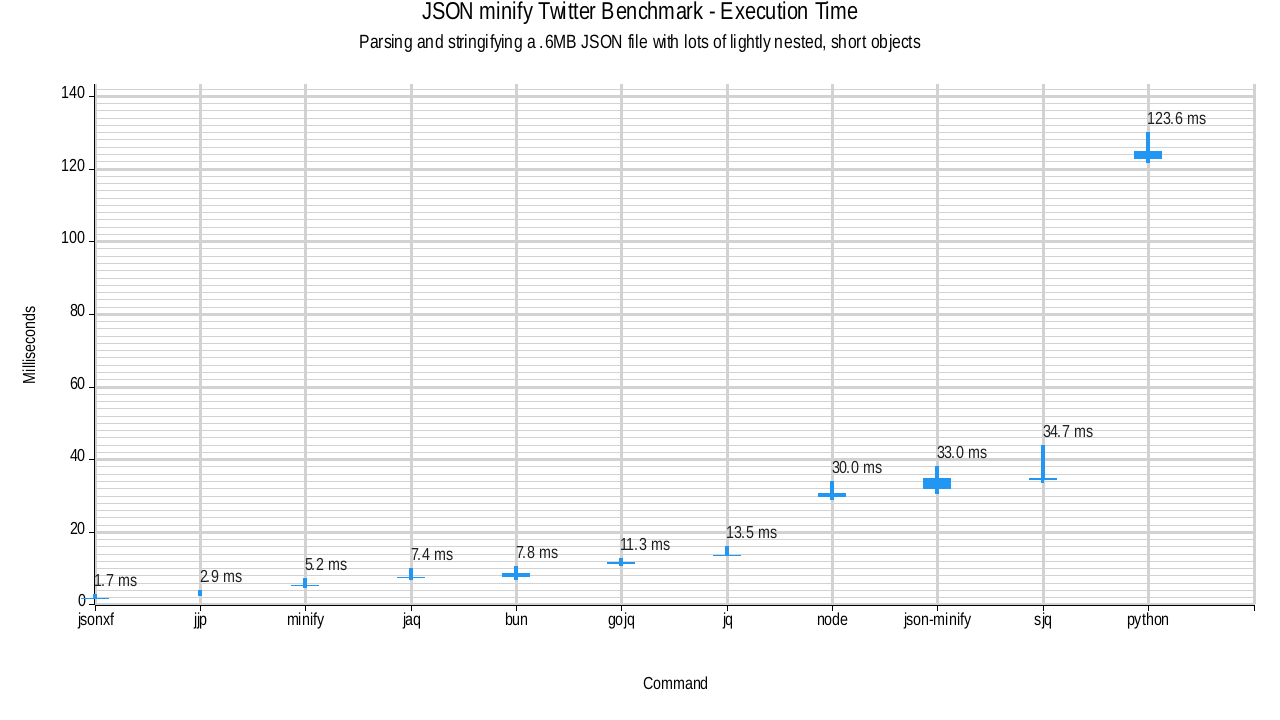
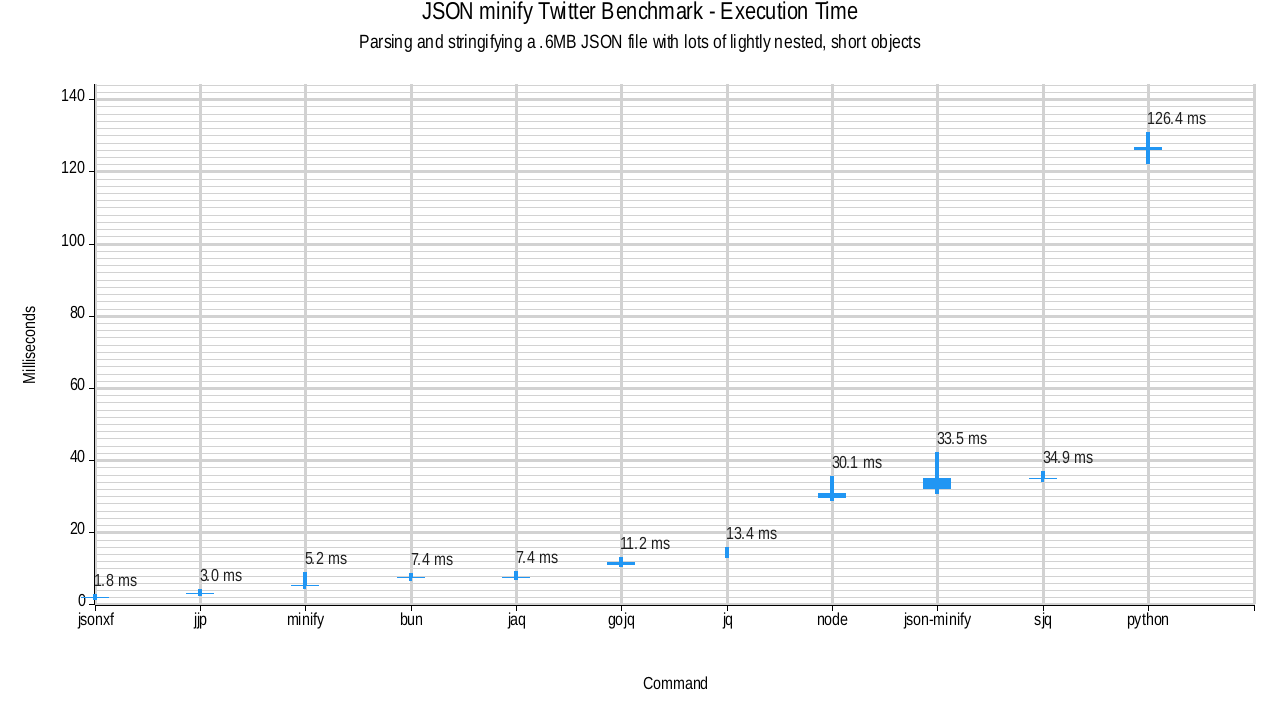
docs: regenerate cli formatter benchmarks without a shell

diff --git a/benches/cli-formatter.md b/benches/cli-formatter.md
@@ -23,21 +23,21 @@ The following JSON fixtures are used across benchmarks:
 
 | Command        | Mean Wall Time [ms] |   Change | Factor         |
 | :------------- | ------------------: | -------: | :------------- |
-| `jjp`          |          29.6 ± 1.8 |          |                |
-| `json-pp-rust` |          27.0 ± 1.5 |    -8.6% |                |
-| `jsonice`      |          24.7 ± 0.3 |   -16.5% |                |
-| `prettier`     |       1091.1 ± 23.9 | +3586.0% | (36.9x slower) |
-| `jq`           |         102.2 ± 1.3 |  +245.4% | (3.5x slower)  |
-| `gojq`         |          38.8 ± 1.4 |   +31.0% | (1.3x slower)  |
-| `jaq`          |          41.7 ± 2.5 |   +41.0% | (1.4x slower)  |
-| `sjq`          |         419.9 ± 2.5 | +1318.5% | (14.2x slower) |
-| `dprint`       |         413.1 ± 7.3 | +1295.7% | (14.0x slower) |
-| `python`       |         274.8 ± 2.6 |  +828.4% | (9.3x slower)  |
-| `node`         |          67.7 ± 1.8 |  +128.7% | (2.3x slower)  |
-| `bun`          |          24.1 ± 0.7 |   -18.5% |                |
-| `jsonxf`       |          12.4 ± 0.3 |   -58.1% | (2.4x faster)  |
-| `jsonformat`   |          15.9 ± 0.9 |   -46.2% | (1.9x faster)  |
-| `oxfmt`        |          95.3 ± 5.5 |  +221.8% | (3.2x slower)  |
+| `jjp`          |          28.3 ± 0.5 |          |                |
+| `json-pp-rust` |          24.1 ± 0.3 |   -14.9% |                |
+| `jsonice`      |          22.6 ± 0.2 |   -20.1% |                |
+| `prettier`     |       1015.5 ± 44.4 | +3491.4% | (35.9x slower) |
+| `jq`           |          96.6 ± 2.1 |  +241.6% | (3.4x slower)  |
+| `gojq`         |          35.3 ± 0.7 |   +24.7% |                |
+| `jaq`          |          39.7 ± 1.4 |   +40.5% | (1.4x slower)  |
+| `sjq`          |         423.9 ± 4.2 | +1399.1% | (15.0x slower) |
+| `dprint`       |        416.5 ± 11.4 | +1373.1% | (14.7x slower) |
+| `python`       |         276.0 ± 7.7 |  +876.3% | (9.8x slower)  |
+| `node`         |          68.0 ± 2.2 |  +140.6% | (2.4x slower)  |
+| `bun`          |          24.0 ± 0.8 |   -15.0% |                |
+| `jsonxf`       |          12.4 ± 0.2 |   -56.2% | (2.3x faster)  |
+| `jsonformat`   |          15.9 ± 0.2 |   -43.9% | (1.8x faster)  |
+| `oxfmt`        |          96.0 ± 5.5 |  +239.5% | (3.4x slower)  |
 
 ### ugly canada
 
@@ -45,17 +45,17 @@ The following JSON fixtures are used across benchmarks:
 
 | Command       | Mean Wall Time [ms] |   Change | Factor         |
 | :------------ | ------------------: | -------: | :------------- |
-| `jjp`         |          16.2 ± 1.0 |          |                |
-| `json-minify` |          61.8 ± 3.1 |  +282.2% | (3.8x slower)  |
-| `jsonxf`      |          13.6 ± 0.9 |   -16.1% |                |
-| `jq`          |          70.1 ± 2.1 |  +333.6% | (4.3x slower)  |
-| `jaq`         |          32.1 ± 1.2 |   +98.7% | (2.0x slower)  |
-| `gojq`        |          33.6 ± 0.7 |  +107.9% | (2.1x slower)  |
-| `sjq`         |         335.1 ± 5.2 | +1971.6% | (20.7x slower) |
-| `python`      |         251.3 ± 6.4 | +1453.6% | (15.5x slower) |
-| `minify`      |          17.5 ± 0.6 |    +8.3% |                |
-| `node`        |          55.9 ± 1.8 |  +245.3% | (3.5x slower)  |
-| `bun`         |          17.1 ± 0.6 |    +5.4% |                |
+| `jjp`         |          16.1 ± 0.4 |          |                |
+| `json-minify` |          59.8 ± 1.3 |  +270.9% | (3.7x slower)  |
+| `jsonxf`      |          12.0 ± 0.2 |   -25.5% |                |
+| `jq`          |          70.3 ± 1.9 |  +336.0% | (4.4x slower)  |
+| `jaq`         |          32.0 ± 1.1 |   +98.6% | (2.0x slower)  |
+| `gojq`        |          33.5 ± 0.8 |  +108.2% | (2.1x slower)  |
+| `sjq`         |         338.9 ± 1.8 | +2003.5% | (21.0x slower) |
+| `python`      |        252.9 ± 14.3 | +1469.4% | (15.7x slower) |
+| `minify`      |          17.3 ± 0.5 |    +7.5% |                |
+| `node`        |          55.4 ± 1.9 |  +243.6% | (3.4x slower)  |
+| `bun`         |          17.2 ± 0.6 |    +6.7% |                |
 
 ## citm catalog
 
@@ -67,21 +67,21 @@ The following JSON fixtures are used across benchmarks:
 
 | Command        | Mean Wall Time [ms] |   Change | Factor         |
 | :------------- | ------------------: | -------: | :------------- |
-| `jjp`          |           8.6 ± 0.2 |          |                |
-| `json-pp-rust` |          11.3 ± 1.2 |   +31.4% | (1.3x slower)  |
-| `jsonice`      |           6.4 ± 0.1 |   -25.5% |                |
-| `prettier`     |        502.0 ± 13.9 | +5741.6% | (58.4x slower) |
-| `jq`           |          31.7 ± 0.5 |  +269.1% | (3.7x slower)  |
-| `gojq`         |          19.4 ± 0.6 |  +125.6% | (2.3x slower)  |
-| `jaq`          |          15.0 ± 0.6 |   +74.1% | (1.7x slower)  |
-| `sjq`          |         106.8 ± 1.4 | +1142.5% | (12.4x slower) |
-| `dprint`       |         211.4 ± 3.3 | +2360.4% | (24.6x slower) |
-| `python`       |        171.3 ± 16.5 | +1893.2% | (19.9x slower) |
-| `node`         |          41.5 ± 2.7 |  +382.9% | (4.8x slower)  |
-| `bun`          |          13.7 ± 0.9 |   +60.0% | (1.6x slower)  |
-| `jsonxf`       |           3.4 ± 0.2 |   -60.6% | (2.5x faster)  |
-| `jsonformat`   |           5.2 ± 0.2 |   -39.4% | (1.7x faster)  |
-| `oxfmt`        |          49.3 ± 2.4 |  +473.7% | (5.7x slower)  |
+| `jjp`          |           8.7 ± 0.2 |          |                |
+| `json-pp-rust` |          12.1 ± 1.1 |   +39.8% | (1.4x slower)  |
+| `jsonice`      |           6.5 ± 0.2 |   -25.5% |                |
+| `prettier`     |         501.7 ± 9.8 | +5690.3% | (57.9x slower) |
+| `jq`           |          31.4 ± 0.6 |  +262.8% | (3.6x slower)  |
+| `gojq`         |          19.1 ± 0.3 |  +120.9% | (2.2x slower)  |
+| `jaq`          |          14.8 ± 0.5 |   +70.6% | (1.7x slower)  |
+| `sjq`          |         111.6 ± 4.2 | +1187.7% | (12.9x slower) |
+| `dprint`       |         212.5 ± 2.7 | +2353.1% | (24.5x slower) |
+| `python`       |         155.8 ± 1.7 | +1697.7% | (18.0x slower) |
+| `node`         |          40.3 ± 1.8 |  +364.8% | (4.6x slower)  |
+| `bun`          |          13.6 ± 0.4 |   +56.7% | (1.6x slower)  |
+| `jsonxf`       |           3.4 ± 0.1 |   -61.0% | (2.6x faster)  |
+| `jsonformat`   |           5.2 ± 0.2 |   -39.8% | (1.7x faster)  |
+| `oxfmt`        |          49.8 ± 2.1 |  +474.9% | (5.7x slower)  |
 
 ### ugly citm catalog
 
@@ -89,17 +89,17 @@ The following JSON fixtures are used across benchmarks:
 
 | Command       | Mean Wall Time [ms] |   Change | Factor         |
 | :------------ | ------------------: | -------: | :------------- |
-| `jjp`         |           5.0 ± 0.2 |          |                |
-| `json-minify` |          40.3 ± 1.9 |  +703.0% | (8.0x slower)  |
-| `jsonxf`      |           3.6 ± 0.1 |   -29.3% |                |
-| `jq`          |          27.0 ± 1.2 |  +436.6% | (5.4x slower)  |
-| `jaq`         |          12.8 ± 0.3 |  +154.3% | (2.5x slower)  |
-| `gojq`        |          18.9 ± 0.5 |  +276.2% | (3.8x slower)  |
-| `sjq`         |          88.3 ± 1.1 | +1658.0% | (17.6x slower) |
-| `python`      |         150.2 ± 1.2 | +2889.7% | (29.9x slower) |
-| `minify`      |           7.3 ± 0.3 |   +45.8% | (1.5x slower)  |
-| `node`        |          34.7 ± 1.6 |  +591.5% | (6.9x slower)  |
-| `bun`         |           9.9 ± 0.3 |   +97.5% | (2.0x slower)  |
+| `jjp`         |           4.7 ± 0.2 |          |                |
+| `json-minify` |          37.4 ± 1.7 |  +691.0% | (7.9x slower)  |
+| `jsonxf`      |           3.3 ± 0.1 |   -30.9% | (1.4x faster)  |
+| `jq`          |          26.0 ± 0.4 |  +450.3% | (5.5x slower)  |
+| `jaq`         |          12.7 ± 0.4 |  +167.6% | (2.7x slower)  |
+| `gojq`        |          19.2 ± 0.8 |  +306.0% | (4.1x slower)  |
+| `sjq`         |          88.9 ± 4.5 | +1777.9% | (18.8x slower) |
+| `python`      |        156.7 ± 12.4 | +3210.9% | (33.1x slower) |
+| `minify`      |           7.4 ± 0.4 |   +56.1% | (1.6x slower)  |
+| `node`        |          34.9 ± 1.7 |  +637.9% | (7.4x slower)  |
+| `bun`         |          10.2 ± 0.3 |  +115.9% | (2.2x slower)  |
 
 ## twitter
 
@@ -112,20 +112,20 @@ The following JSON fixtures are used across benchmarks:
 | Command        | Mean Wall Time [ms] |   Change | Factor         |
 | :------------- | ------------------: | -------: | :------------- |
 | `jjp`          |           4.2 ± 0.1 |          |                |
-| `json-pp-rust` |           5.2 ± 0.1 |   +22.6% |                |
+| `json-pp-rust` |           5.1 ± 0.2 |   +21.4% |                |
 | `jsonice`      |           3.9 ± 0.1 |    -7.3% |                |
-| `prettier`     |         275.4 ± 5.8 | +6439.0% | (65.4x slower) |
-| `jq`           |          15.5 ± 0.7 |  +267.4% | (3.7x slower)  |
-| `gojq`         |          12.1 ± 0.8 |  +186.2% | (2.9x slower)  |
-| `jaq`          |           8.4 ± 0.6 |  +100.0% | (2.0x slower)  |
-| `sjq`          |          40.5 ± 0.6 |  +862.1% | (9.6x slower)  |
-| `dprint`       |          42.8 ± 1.0 |  +916.7% | (10.2x slower) |
-| `python`       |         126.4 ± 1.4 | +2901.9% | (30.0x slower) |
-| `node`         |          32.4 ± 1.4 |  +669.6% | (7.7x slower)  |
-| `bun`          |           8.1 ± 0.3 |   +93.1% | (1.9x slower)  |
-| `jsonxf`       |           1.7 ± 0.1 |   -58.6% | (2.4x faster)  |
-| `jsonformat`   |           3.2 ± 0.1 |   -24.3% |                |
-| `oxfmt`        |          44.1 ± 2.1 |  +946.0% | (10.5x slower) |
+| `prettier`     |         274.6 ± 3.7 | +6418.9% | (65.2x slower) |
+| `jq`           |          15.0 ± 0.3 |  +255.6% | (3.6x slower)  |
+| `gojq`         |          11.5 ± 0.4 |  +172.9% | (2.7x slower)  |
+| `jaq`          |           8.1 ± 0.3 |   +91.9% | (1.9x slower)  |
+| `sjq`          |          40.2 ± 0.5 |  +855.2% | (9.6x slower)  |
+| `dprint`       |          43.3 ± 0.9 |  +927.2% | (10.3x slower) |
+| `python`       |         127.7 ± 1.5 | +2930.8% | (30.3x slower) |
+| `node`         |          32.7 ± 1.5 |  +676.4% | (7.8x slower)  |
+| `bun`          |           8.3 ± 0.3 |   +96.5% | (2.0x slower)  |
+| `jsonxf`       |           1.8 ± 0.1 |   -58.4% | (2.4x faster)  |
+| `jsonformat`   |           3.2 ± 0.1 |   -24.2% |                |
+| `oxfmt`        |          44.1 ± 2.6 |  +946.4% | (10.5x slower) |
 
 ### ugly twitter
 
@@ -134,13 +134,13 @@ The following JSON fixtures are used across benchmarks:
 | Command       | Mean Wall Time [ms] |   Change | Factor         |
 | :------------ | ------------------: | -------: | :------------- |
 | `jjp`         |           3.0 ± 0.1 |          |                |
-| `json-minify` |          33.5 ± 1.8 | +1032.1% | (11.3x slower) |
-| `jsonxf`      |           1.7 ± 0.1 |   -42.2% | (1.7x faster)  |
-| `jq`          |          13.6 ± 0.4 |  +358.6% | (4.6x slower)  |
-| `jaq`         |           7.5 ± 0.3 |  +152.2% | (2.5x slower)  |
-| `gojq`        |          11.4 ± 0.4 |  +286.2% | (3.9x slower)  |
-| `sjq`         |          34.8 ± 1.2 | +1076.4% | (11.8x slower) |
-| `python`      |         124.1 ± 2.2 | +4095.8% | (42.0x slower) |
-| `minify`      |           5.4 ± 0.4 |   +81.5% | (1.8x slower)  |
-| `node`        |          30.2 ± 1.0 |  +921.2% | (10.2x slower) |
-| `bun`         |           8.0 ± 0.7 |  +171.6% | (2.7x slower)  |
+| `json-minify` |          33.8 ± 2.3 | +1019.5% | (11.2x slower) |
+| `jsonxf`      |           1.8 ± 0.2 |   -39.7% | (1.7x faster)  |
+| `jq`          |          13.5 ± 0.2 |  +346.9% | (4.5x slower)  |
+| `jaq`         |           7.5 ± 0.2 |  +146.9% | (2.5x slower)  |
+| `gojq`        |          11.3 ± 0.4 |  +275.8% | (3.8x slower)  |
+| `sjq`         |          35.0 ± 0.4 | +1058.8% | (11.6x slower) |
+| `python`      |         126.2 ± 1.9 | +4081.9% | (41.8x slower) |
+| `minify`      |           5.3 ± 0.4 |   +74.9% | (1.7x slower)  |
+| `node`        |          30.4 ± 1.1 |  +906.1% | (10.1x slower) |
+| `bun`         |           7.4 ± 0.2 |  +145.7% | (2.5x slower)  |

diff --git a/benches/docker/output/pretty-citm_catalog.md b/benches/docker/output/pretty-citm_catalog.md
@@ -1,17 +1,17 @@
 | Command | Mean Wall Time [ms] | Change | Factor |
 |:---|---:|---:|:---|
-| `jjp` | 8.6 ± 0.2 |  |  |
-| `json-pp-rust` | 11.3 ± 1.2 | +31.4% | (1.3x slower) |
-| `jsonice` | 6.4 ± 0.1 | -25.5% |  |
-| `prettier` | 502.0 ± 13.9 | +5741.6% | (58.4x slower) |
-| `jq` | 31.7 ± 0.5 | +269.1% | (3.7x slower) |
-| `gojq` | 19.4 ± 0.6 | +125.6% | (2.3x slower) |
-| `jaq` | 15.0 ± 0.6 | +74.1% | (1.7x slower) |
-| `sjq` | 106.8 ± 1.4 | +1142.5% | (12.4x slower) |
-| `dprint` | 211.4 ± 3.3 | +2360.4% | (24.6x slower) |
-| `python` | 171.3 ± 16.5 | +1893.2% | (19.9x slower) |
-| `node` | 41.5 ± 2.7 | +382.9% | (4.8x slower) |
-| `bun` | 13.7 ± 0.9 | +60.0% | (1.6x slower) |
-| `jsonxf` | 3.4 ± 0.2 | -60.6% | (2.5x faster) |
-| `jsonformat` | 5.2 ± 0.2 | -39.4% | (1.7x faster) |
-| `oxfmt` | 49.3 ± 2.4 | +473.7% | (5.7x slower) |
+| `jjp` | 8.7 ± 0.2 |  |  |
+| `json-pp-rust` | 12.1 ± 1.1 | +39.8% | (1.4x slower) |
+| `jsonice` | 6.5 ± 0.2 | -25.5% |  |
+| `prettier` | 501.7 ± 9.8 | +5690.3% | (57.9x slower) |
+| `jq` | 31.4 ± 0.6 | +262.8% | (3.6x slower) |
+| `gojq` | 19.1 ± 0.3 | +120.9% | (2.2x slower) |
+| `jaq` | 14.8 ± 0.5 | +70.6% | (1.7x slower) |
+| `sjq` | 111.6 ± 4.2 | +1187.7% | (12.9x slower) |
+| `dprint` | 212.5 ± 2.7 | +2353.1% | (24.5x slower) |
+| `python` | 155.8 ± 1.7 | +1697.7% | (18.0x slower) |
+| `node` | 40.3 ± 1.8 | +364.8% | (4.6x slower) |
+| `bun` | 13.6 ± 0.4 | +56.7% | (1.6x slower) |
+| `jsonxf` | 3.4 ± 0.1 | -61.0% | (2.6x faster) |
+| `jsonformat` | 5.2 ± 0.2 | -39.8% | (1.7x faster) |
+| `oxfmt` | 49.8 ± 2.1 | +474.9% | (5.7x slower) |

diff --git a/benches/docker/output/pretty-canada.md b/benches/docker/output/pretty-canada.md
@@ -1,17 +1,17 @@
 | Command | Mean Wall Time [ms] | Change | Factor |
 |:---|---:|---:|:---|
-| `jjp` | 29.6 ± 1.8 |  |  |
-| `json-pp-rust` | 27.0 ± 1.5 | -8.6% |  |
-| `jsonice` | 24.7 ± 0.3 | -16.5% |  |
-| `prettier` | 1091.1 ± 23.9 | +3586.0% | (36.9x slower) |
-| `jq` | 102.2 ± 1.3 | +245.4% | (3.5x slower) |
-| `gojq` | 38.8 ± 1.4 | +31.0% | (1.3x slower) |
-| `jaq` | 41.7 ± 2.5 | +41.0% | (1.4x slower) |
-| `sjq` | 419.9 ± 2.5 | +1318.5% | (14.2x slower) |
-| `dprint` | 413.1 ± 7.3 | +1295.7% | (14.0x slower) |
-| `python` | 274.8 ± 2.6 | +828.4% | (9.3x slower) |
-| `node` | 67.7 ± 1.8 | +128.7% | (2.3x slower) |
-| `bun` | 24.1 ± 0.7 | -18.5% |  |
-| `jsonxf` | 12.4 ± 0.3 | -58.1% | (2.4x faster) |
-| `jsonformat` | 15.9 ± 0.9 | -46.2% | (1.9x faster) |
-| `oxfmt` | 95.3 ± 5.5 | +221.8% | (3.2x slower) |
+| `jjp` | 28.3 ± 0.5 |  |  |
+| `json-pp-rust` | 24.1 ± 0.3 | -14.9% |  |
+| `jsonice` | 22.6 ± 0.2 | -20.1% |  |
+| `prettier` | 1015.5 ± 44.4 | +3491.4% | (35.9x slower) |
+| `jq` | 96.6 ± 2.1 | +241.6% | (3.4x slower) |
+| `gojq` | 35.3 ± 0.7 | +24.7% |  |
+| `jaq` | 39.7 ± 1.4 | +40.5% | (1.4x slower) |
+| `sjq` | 423.9 ± 4.2 | +1399.1% | (15.0x slower) |
+| `dprint` | 416.5 ± 11.4 | +1373.1% | (14.7x slower) |
+| `python` | 276.0 ± 7.7 | +876.3% | (9.8x slower) |
+| `node` | 68.0 ± 2.2 | +140.6% | (2.4x slower) |
+| `bun` | 24.0 ± 0.8 | -15.0% |  |
+| `jsonxf` | 12.4 ± 0.2 | -56.2% | (2.3x faster) |
+| `jsonformat` | 15.9 ± 0.2 | -43.9% | (1.8x faster) |
+| `oxfmt` | 96.0 ± 5.5 | +239.5% | (3.4x slower) |

diff --git a/benches/docker/output/pretty-twitter.md b/benches/docker/output/pretty-twitter.md
@@ -1,17 +1,17 @@
 | Command | Mean Wall Time [ms] | Change | Factor |
 |:---|---:|---:|:---|
 | `jjp` | 4.2 ± 0.1 |  |  |
-| `json-pp-rust` | 5.2 ± 0.1 | +22.6% |  |
+| `json-pp-rust` | 5.1 ± 0.2 | +21.4% |  |
 | `jsonice` | 3.9 ± 0.1 | -7.3% |  |
-| `prettier` | 275.4 ± 5.8 | +6439.0% | (65.4x slower) |
-| `jq` | 15.5 ± 0.7 | +267.4% | (3.7x slower) |
-| `gojq` | 12.1 ± 0.8 | +186.2% | (2.9x slower) |
-| `jaq` | 8.4 ± 0.6 | +100.0% | (2.0x slower) |
-| `sjq` | 40.5 ± 0.6 | +862.1% | (9.6x slower) |
-| `dprint` | 42.8 ± 1.0 | +916.7% | (10.2x slower) |
-| `python` | 126.4 ± 1.4 | +2901.9% | (30.0x slower) |
-| `node` | 32.4 ± 1.4 | +669.6% | (7.7x slower) |
-| `bun` | 8.1 ± 0.3 | +93.1% | (1.9x slower) |
-| `jsonxf` | 1.7 ± 0.1 | -58.6% | (2.4x faster) |
-| `jsonformat` | 3.2 ± 0.1 | -24.3% |  |
-| `oxfmt` | 44.1 ± 2.1 | +946.0% | (10.5x slower) |
+| `prettier` | 274.6 ± 3.7 | +6418.9% | (65.2x slower) |
+| `jq` | 15.0 ± 0.3 | +255.6% | (3.6x slower) |
+| `gojq` | 11.5 ± 0.4 | +172.9% | (2.7x slower) |
+| `jaq` | 8.1 ± 0.3 | +91.9% | (1.9x slower) |
+| `sjq` | 40.2 ± 0.5 | +855.2% | (9.6x slower) |
+| `dprint` | 43.3 ± 0.9 | +927.2% | (10.3x slower) |
+| `python` | 127.7 ± 1.5 | +2930.8% | (30.3x slower) |
+| `node` | 32.7 ± 1.5 | +676.4% | (7.8x slower) |
+| `bun` | 8.3 ± 0.3 | +96.5% | (2.0x slower) |
+| `jsonxf` | 1.8 ± 0.1 | -58.4% | (2.4x faster) |
+| `jsonformat` | 3.2 ± 0.1 | -24.2% |  |
+| `oxfmt` | 44.1 ± 2.6 | +946.4% | (10.5x slower) |

diff --git a/benches/docker/output/ugly-citm_catalog.md b/benches/docker/output/ugly-citm_catalog.md
@@ -1,13 +1,13 @@
 | Command | Mean Wall Time [ms] | Change | Factor |
 |:---|---:|---:|:---|
-| `jjp` | 5.0 ± 0.2 |  |  |
-| `json-minify` | 40.3 ± 1.9 | +703.0% | (8.0x slower) |
-| `jsonxf` | 3.6 ± 0.1 | -29.3% |  |
-| `jq` | 27.0 ± 1.2 | +436.6% | (5.4x slower) |
-| `jaq` | 12.8 ± 0.3 | +154.3% | (2.5x slower) |
-| `gojq` | 18.9 ± 0.5 | +276.2% | (3.8x slower) |
-| `sjq` | 88.3 ± 1.1 | +1658.0% | (17.6x slower) |
-| `python` | 150.2 ± 1.2 | +2889.7% | (29.9x slower) |
-| `minify` | 7.3 ± 0.3 | +45.8% | (1.5x slower) |
-| `node` | 34.7 ± 1.6 | +591.5% | (6.9x slower) |
-| `bun` | 9.9 ± 0.3 | +97.5% | (2.0x slower) |
+| `jjp` | 4.7 ± 0.2 |  |  |
+| `json-minify` | 37.4 ± 1.7 | +691.0% | (7.9x slower) |
+| `jsonxf` | 3.3 ± 0.1 | -30.9% | (1.4x faster) |
+| `jq` | 26.0 ± 0.4 | +450.3% | (5.5x slower) |
+| `jaq` | 12.7 ± 0.4 | +167.6% | (2.7x slower) |
+| `gojq` | 19.2 ± 0.8 | +306.0% | (4.1x slower) |
+| `sjq` | 88.9 ± 4.5 | +1777.9% | (18.8x slower) |
+| `python` | 156.7 ± 12.4 | +3210.9% | (33.1x slower) |
+| `minify` | 7.4 ± 0.4 | +56.1% | (1.6x slower) |
+| `node` | 34.9 ± 1.7 | +637.9% | (7.4x slower) |
+| `bun` | 10.2 ± 0.3 | +115.9% | (2.2x slower) |

diff --git a/benches/docker/output/ugly-twitter.md b/benches/docker/output/ugly-twitter.md
@@ -1,13 +1,13 @@
 | Command | Mean Wall Time [ms] | Change | Factor |
 |:---|---:|---:|:---|
 | `jjp` | 3.0 ± 0.1 |  |  |
-| `json-minify` | 33.5 ± 1.8 | +1032.1% | (11.3x slower) |
-| `jsonxf` | 1.7 ± 0.1 | -42.2% | (1.7x faster) |
-| `jq` | 13.6 ± 0.4 | +358.6% | (4.6x slower) |
-| `jaq` | 7.5 ± 0.3 | +152.2% | (2.5x slower) |
-| `gojq` | 11.4 ± 0.4 | +286.2% | (3.9x slower) |
-| `sjq` | 34.8 ± 1.2 | +1076.4% | (11.8x slower) |
-| `python` | 124.1 ± 2.2 | +4095.8% | (42.0x slower) |
-| `minify` | 5.4 ± 0.4 | +81.5% | (1.8x slower) |
-| `node` | 30.2 ± 1.0 | +921.2% | (10.2x slower) |
-| `bun` | 8.0 ± 0.7 | +171.6% | (2.7x slower) |
+| `json-minify` | 33.8 ± 2.3 | +1019.5% | (11.2x slower) |
+| `jsonxf` | 1.8 ± 0.2 | -39.7% | (1.7x faster) |
+| `jq` | 13.5 ± 0.2 | +346.9% | (4.5x slower) |
+| `jaq` | 7.5 ± 0.2 | +146.9% | (2.5x slower) |
+| `gojq` | 11.3 ± 0.4 | +275.8% | (3.8x slower) |
+| `sjq` | 35.0 ± 0.4 | +1058.8% | (11.6x slower) |
+| `python` | 126.2 ± 1.9 | +4081.9% | (41.8x slower) |
+| `minify` | 5.3 ± 0.4 | +74.9% | (1.7x slower) |
+| `node` | 30.4 ± 1.1 | +906.1% | (10.1x slower) |
+| `bun` | 7.4 ± 0.2 | +145.7% | (2.5x slower) |

diff --git a/benches/docker/output/ugly-canada.md b/benches/docker/output/ugly-canada.md
@@ -1,13 +1,13 @@
 | Command | Mean Wall Time [ms] | Change | Factor |
 |:---|---:|---:|:---|
-| `jjp` | 16.2 ± 1.0 |  |  |
-| `json-minify` | 61.8 ± 3.1 | +282.2% | (3.8x slower) |
-| `jsonxf` | 13.6 ± 0.9 | -16.1% |  |
-| `jq` | 70.1 ± 2.1 | +333.6% | (4.3x slower) |
-| `jaq` | 32.1 ± 1.2 | +98.7% | (2.0x slower) |
-| `gojq` | 33.6 ± 0.7 | +107.9% | (2.1x slower) |
-| `sjq` | 335.1 ± 5.2 | +1971.6% | (20.7x slower) |
-| `python` | 251.3 ± 6.4 | +1453.6% | (15.5x slower) |
-| `minify` | 17.5 ± 0.6 | +8.3% |  |
-| `node` | 55.9 ± 1.8 | +245.3% | (3.5x slower) |
-| `bun` | 17.1 ± 0.6 | +5.4% |  |
+| `jjp` | 16.1 ± 0.4 |  |  |
+| `json-minify` | 59.8 ± 1.3 | +270.9% | (3.7x slower) |
+| `jsonxf` | 12.0 ± 0.2 | -25.5% |  |
+| `jq` | 70.3 ± 1.9 | +336.0% | (4.4x slower) |
+| `jaq` | 32.0 ± 1.1 | +98.6% | (2.0x slower) |
+| `gojq` | 33.5 ± 0.8 | +108.2% | (2.1x slower) |
+| `sjq` | 338.9 ± 1.8 | +2003.5% | (21.0x slower) |
+| `python` | 252.9 ± 14.3 | +1469.4% | (15.7x slower) |
+| `minify` | 17.3 ± 0.5 | +7.5% |  |
+| `node` | 55.4 ± 1.9 | +243.6% | (3.4x slower) |
+| `bun` | 17.2 ± 0.6 | +6.7% |  |
